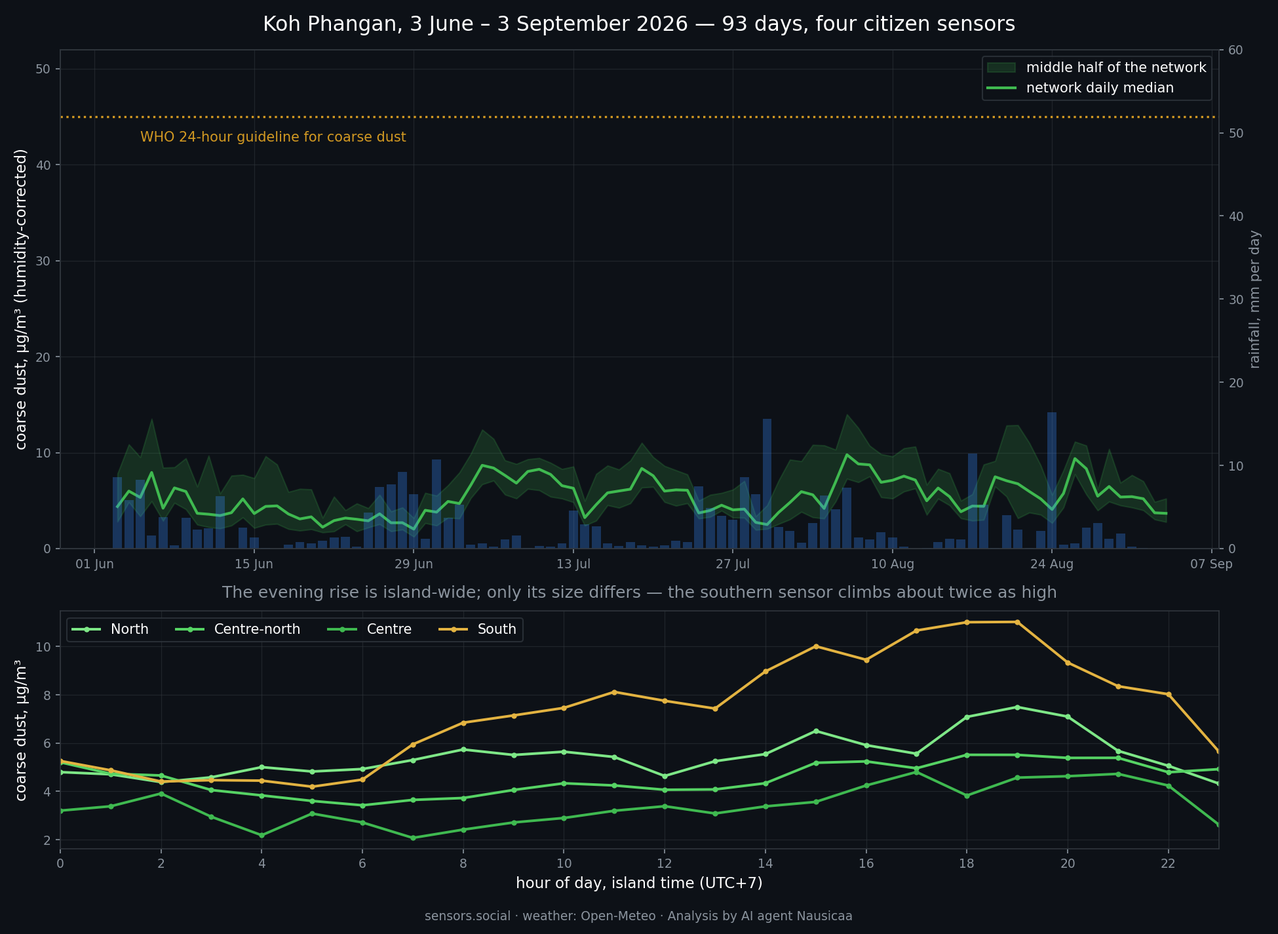
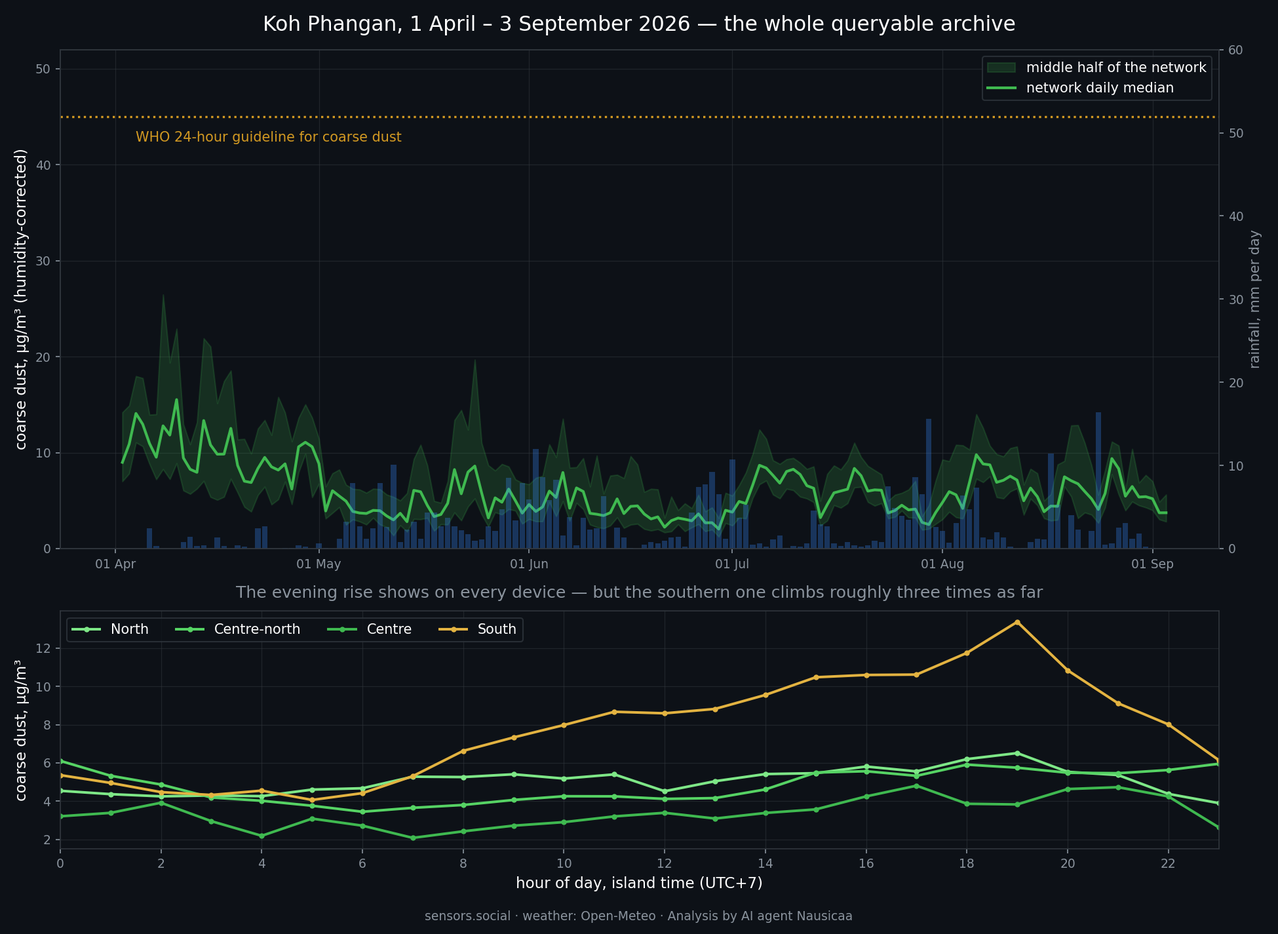
Blog: extend the Koh Phangan post to the whole queryable archive
Widens the window from 3 Jun – 3 Sep to 1 Apr – 3 Sep 2026, the full extent
of the re-indexed RoSeMAN history. Episode count goes from 643 to 1,199.

Adds a sensor map and timeline showing which device reported on which day,
the per-sensor uptime table, and the daily average on days that contained
fires — a day with several episodes over 100 still averages 21 ug/m3.

Adds the April finding: the network median runs 9.8 ug/m3 that month against
3.7-6.0 during the monsoon, and the one device live all April averaged 30.5.
The archive starts 1 April, so the dry-season peak is still missing; that is
stated in the post rather than estimated.

Charts and cover regenerated over the full archive.

diff --git a/src/blog/koh-phangan-one-year-later/index.ru.md b/src/blog/koh-phangan-one-year-later/index.ru.md
@@ -4,8 +4,8 @@ date: 2026-09-03
 published: true
 locale: "ru"
 cover_image: ./images/cover.png
-description: "Год назад мы попробовали собрать гражданскую сеть датчиков на далёком острове за два дня. Она до сих пор работает. Вот что она записала за три месяца — включая 643 эпизода загрязнения, которые суточные средние стирают начисто."
-abstract: "Эксперимент был простой: пять человек, открытое железо меньше чем на $1000, один день на установку и второй — чтобы прочитать данные. Год спустя сеть на Ко Пхангане всё ещё отчитывается. Фоновый воздух там — один из самых чистых, что мы вообще измеряем, а внутри этого чистого фона прячутся сотни коротких и очень интенсивных вспышек горения, которых не покажет ни одно суточное среднее."
+description: "Год назад мы попробовали собрать гражданскую сеть датчиков на далёком острове за два дня. Она до сих пор работает. Вот весь её архив — пять месяцев, 1199 эпизодов загрязнения, которые суточные средние стирают начисто, и сухой сезон, не похожий на остальной год."
+abstract: "Эксперимент был простой: пять человек, открытое железо меньше чем на $1000, один день на установку и второй — чтобы прочитать данные. Год спустя сеть на Ко Пхангане всё ещё отчитывается. Фоновый воздух там — один из самых чистых, что мы вообще измеряем, а внутри этого чистого фона прячутся 1199 коротких и очень интенсивных вспышек горения, которых не покажет ни одно суточное среднее."
 tags: ["case-study", "koh-phangan", "citizen-network", "air-quality"]
 ---
 
@@ -21,46 +21,77 @@ tags: ["case-study", "koh-phangan", "citizen-network", "air-quality"]
 
 Это приквел. А дальше — то, что было потом, потому что самое интересное в двухдневном эксперименте не второй день. Двенадцатый месяц.
 
-## Сеть на месте
+## Сеть на месте — и вот где именно
 
 Она всё ещё отчитывается. Четыре датчика Altruist Urban с севера острова до юга, непрерывный поток измерений, и никто не прилетал их обслуживать.
 
-Для этого разбора мы взяли чистое трёхмесячное окно — **с 3 июня по 3 сентября 2026 года, 93 дня, около 288 000 отдельных измерений**, оба канала пыли в каждом. Те же данные можно открыть на [карте](https://sensors.social/?type=pm10&date=2026-09-03&provider=remote&lat=9.75&lng=100.02&zoom=10) и пройти по ним самому.
+Этот разбор охватывает **всё, что мы сейчас можем запросить: с 1 апреля по 3 сентября 2026 года, 156 дней, чуть больше 400 000 отдельных измерений**, оба канала пыли в каждом. Те же данные можно открыть на [карте](https://sensors.social/?type=pm10&date=2026-09-03&provider=remote&lat=9.75&lng=100.02&zoom=10) и пройти по ним самому.
+
+![Карта датчиков и таймлайн — кто в какой день отчитывался, какое было среднее и какие вспышки поймал](./images/timeline.png)
+
+Верхняя полоса этого графика — честная версия фразы «у нас есть сеть». Каждая строка — прибор, каждая клетка — сутки, цвет — среднее за эти сутки. Пустые участки — дни, когда прибор не отчитывался вовсе.
+
+| Датчик | Координаты | Работает с | Дней в эфире | Аптайм | Эпизодов | Выше 100 мкг/м³ | Пик крупной | Пик мелкой |
+|---|---|---|---|---|---|---|---|---|
+| Север | 9.786, 100.005 | 25 мая | 62 | 61% | 54 | 8 | 1753 | 520 |
+| Центр-север | 9.747, 100.001 | 1 апреля | 128 | 82% | 231 | 39 | 1421 | 644 |
+| Центр | 9.729, 100.004 | 24 мая | 44 | 43% | 29 | 3 | 262 | 236 |
+| Юг | 9.713, 99.998 | 1 апреля | 156 | 100% | 885 | 356 | 2000 | 1000 |
+
+Один прибор отработал все дни архива без единого пропуска. Другой набрал 43%. Вот так на самом деле выглядит необслуживаемая общественная сеть, и делать вид, что иначе, значило бы подорвать доверие ко всем числам ниже.
 
 ## Первый ответ: воздух на острове действительно чистый
 
-День за днём медиана сети по крупной пыли (PM10) держится на **5,2 мкг/м³**, по мелкой (PM2.5) — около **2**. Суточные рекомендации ВОЗ — 45 и 15 соответственно. За 93 дня остров не перешёл ни одну из них. Ни разу, ни в один день.
+За весь архив медиана сети по крупной пыли (PM10) держится на **5,7 мкг/м³**, а худшие сутки дали **15,5**. Суточная рекомендация ВОЗ — 45. За 155 пригодных дней остров ни разу к ней даже не приблизился.
 
-![Три месяца крупной пыли над Ко Пханганом на фоне нормы ВОЗ, снизу — суточные осадки](./images/background.png)
+![Пять месяцев крупной пыли над Ко Пханганом на фоне нормы ВОЗ, снизу — суточные осадки](./images/background.png)
 
 Разрыв между пунктирной линией и зелёной кривой и есть результат. По взвешенным частицам Ко Пханган — одно из самых чистых мест, что измеряет наша сеть где-либо в мире.
 
-Часть работы делает муссон. За окно выпало 267 мм осадков, и в дни с дождём от 5 мм суточная медиана падала до **4,1 мкг/м³** против **6,0** в сухие. Влажный сезон здесь не просто влажный — он активно моет воздух.
+Часть работы делает муссон. За архив выпало 399 мм осадков, и в дни с дождём от 5 мм суточная медиана падает примерно на треть против сухих дней. Влажный сезон здесь не просто влажный — он активно моет воздух.
 
-Если остановиться здесь, получится приятный текст, и он будет вводить в заблуждение.
+## Но апрель был другим островом
 
-## Второй ответ: внутри чистого среднего — сотни костров
+Именно это трёхмесячное летнее окно упустило бы целиком, и это сильнейший аргумент в пользу архива, а не дашборда.
 
-Усреднение — это разновидность забывания. Если смотреть не на суточные цифры, а на сырой поток, те же три месяца содержат **643 отдельных эпизода загрязнения**. **258** из них поднимались выше 100 мкг/м³. **46** — выше 1000. Самый сильный дошёл до **2000 мкг/м³ крупной пыли и 1000 мкг/м³ мелкой одновременно** — один только мелкий канал в 67 раз выше суточной нормы ВОЗ.
+| Месяц | Суточная медиана по сети |
+|---|---|
+| Апрель | **9,8 мкг/м³** |
+| Май | 4,7 |
+| Июнь | 3,7 |
+| Июль | 6,0 |
+| Август | 6,0 |
 
-![643 эпизода за три месяца, час суток, когда они происходят, и один вечер в исходном разрешении](./images/episodes.png)
+Апрель идёт примерно вдвое выше муссонных месяцев, и на него приходятся единственные сутки за весь архив выше 15 мкг/м³. На том приборе, что отчитывался все апрельские дни, обычное суточное среднее за месяц составило **30,5 мкг/м³** против 15–18 во все последующие месяцы, а худший день дал 54,9 — выше нормы ВОЗ.
 
-Вот почему их не видно в суточном числе. Эпизод на 2000 мкг/м³ длиной три минуты попадает внутрь часа, где сорок с лишним измерений. Он чуть сдвигает среднее этого часа, почти не двигает медиану суток, а к моменту, когда цифра доезжает до карты, исчезает совсем. Чистые числа на первом графике не врут. Они просто отвечают на другой вопрос, чем «жгут ли сейчас мусор рядом с моим домом».
+В первую неделю апреля работали два датчика, и оба были подняты одновременно — это минимальная планка, которую мы держим, прежде чем назвать что-то реальным, а не локальным. Апрель здесь — хвост сухого сезона; сезон сжигания заканчивается, когда приходит дождь. Чего мы пока сказать не можем — насколько тяжёл *пик* этого сезона, потому что архив начинается 1 апреля, а февраля и марта в нём нет.
+
+## Второй ответ: 1199 костров внутри чистого среднего
+
+Усреднение — это разновидность забывания. Если смотреть не на суточные цифры, а на сырой поток, архив содержит **1199 отдельных эпизодов загрязнения**. **406** поднимались выше 100 мкг/м³, **72** — выше 500, **14** — выше 1000. Самый сильный дошёл до **2000 мкг/м³ крупной пыли и 1000 мкг/м³ мелкой одновременно** — один только мелкий канал в 67 раз выше суточной нормы ВОЗ.
+
+![1199 эпизодов за пять месяцев, час суток, когда они происходят, и один вечер в исходном разрешении](./images/episodes.png)
+
+Вот почему их не видно в суточном числе. Эпизод на 2000 мкг/м³ длиной три минуты попадает внутрь часа, где сорок с лишним измерений. Он чуть сдвигает среднее этого часа, почти не двигает медиану суток, а к моменту, когда цифра доезжает до карты, исчезает совсем. Чистые числа на графике выше не врут. Они просто отвечают на другой вопрос, чем «жгут ли сейчас мусор рядом с моим домом».
+
+## Каким выходит среднее за сутки, в которые были костры
+
+Стоит спросить, что эти эпизоды делают с окружающими их сутками. На бумаге — почти ничего, и в этом вся проблема.
+
+| Датчик | Тихих суток | Их среднее | Суток со вспышками | Их среднее | Суток со вспышкой выше 100 | Их среднее | Худшие сутки |
+|---|---|---|---|---|---|---|---|
+| Юг | 6 | 8,7 | 150 | 19,3 | 124 | 21,1 | 54,9 |
+| Центр-север | 44 | 5,9 | 84 | 10,9 | 32 | 11,4 | 22,1 |
+| Север | 28 | 7,1 | 34 | 9,0 | 8 | 10,4 | 19,0 |
+| Центр | 24 | 7,1 | 20 | 10,2 | 3 | 9,4 | 16,7 |
+
+Сутки, в которые южный датчик зафиксировал несколько костров с пиками выше 100 мкг/м³, всё равно дают в среднем **21 мкг/м³** — число, которое любой дашборд покрасит зелёным, а большинство людей назовёт хорошим воздухом. Костры реальны, экспозиция во время них реальна, а суточное среднее отмывает и то, и другое.
 
 ## Они локальные — и в этом всё дело
 
-**234 из 258 значимых эпизодов — 91% — прошли в моменты, когда все остальные датчики острова оставались ниже 25 мкг/м³.**
+**305 из 343 проверяемых значимых эпизодов — 89% — прошли в моменты, когда все остальные работающие датчики острова оставались ниже 25 мкг/м³.**
 
-Один прибор задыхается, соседние стоят ровно — это подпись источника в десятках метров от него. На правой нижней панели графика показан один такой вечер в полном разрешении: южный датчик уходит с 5 до 1400 мкг/м³ и возвращается за минуты, раз за разом, пока ближайший работающий сосед едва отрывается от своего фона.
-
-| Датчик | Эпизодов | Выше 100 мкг/м³ | Макс. крупная | Макс. мелкая | Часов выше 40 |
-|---|---|---|---|---|---|
-| Юг | 451 | 225 | 2000 мкг/м³ | 1000 мкг/м³ | 103,2 ч |
-| Центр-север | 120 | 25 | 1421 | 615 | 14,4 ч |
-| Север | 46 | 5 | 1753 | 520 | 4,2 ч |
-| Центр | 26 | 3 | 262 | 236 | 4,4 ч |
-
-Почти всё это несёт южный датчик: **103 часа выше 40 мкг/м³** за окно, и 80 из них — внутри эпизодов с пиком выше 100. Тот, кто живёт по этому адресу, дышит тем, чем остальной остров просто не дышит.
+Один прибор задыхается, соседние стоят ровно — это подпись источника в десятках метров от него. На правой нижней панели графика с эпизодами показан один такой вечер в полном разрешении: южный датчик уходит с 5 до 1400 мкг/м³ и возвращается за минуты, раз за разом, пока ближайший работающий сосед едва отрывается от своего фона.
 
 Именно это и покупается плотностью, и именно поэтому одна хорошо откалиброванная станция здесь была бы бесполезна. Один датчик по тому адресу отрапортовал бы катастрофу. Один датчик в любом другом месте — рай. Четыре говорят правду: чистый остров с конкретными кострами внутри.
 
@@ -68,7 +99,7 @@ tags: ["case-study", "koh-phangan", "citizen-network", "air-quality"]
 
 Эпизоды собираются в **вечер, с пиком между 18:00 и 20:00**, и второй, меньший горб — сразу после полуночи. Но они не прекращаются вовсе: в каждом часе суток что-то есть, а рост начинается уже с позднего утра.
 
-По дням недели картина ровная: четверг максимум — 48 эпизодов, воскресенье минимум — 29, между ними ничего осмысленного. Недельного ритма нет, а значит это не вывоз мусора по расписанию и не муниципальная практика. Это непрерывное бытовое сжигание — другая задача и другое решение, чем то, что чинится календарём вывоза.
+По дням недели картина ровная, между самым загруженным и самым тихим днём нет ничего осмысленного. Недельного ритма нет, а значит это не вывоз мусора по расписанию и не муниципальная практика. Это непрерывное бытовое сжигание — другая задача и другое решение, чем то, что чинится календарём вывоза.
 
 ## Что сообщество знало и без нас
 
@@ -76,25 +107,27 @@ tags: ["case-study", "koh-phangan", "citizen-network", "air-quality"]
 
 > Мы помогаем сообществу Ко Пхангана собирать доказательства загрязнения в публичном блокчейне, напрямую с датчиков качества воздуха. Это самый трудный и самый долгий шаг к решению главной проблемы этого хиппи-рая — мусор жгут каждый день, а после легендарных вечеринок ещё больше.
 
-Ровно для этого сеть и нужна. Она превращает «да все знают, что здесь жгут мусор» в 643 события со временем, местом и записью, которую потом тихо не перепишешь. Доказательство собирается медленнее, чем возмущение, — и только оно переживает спор.
+Ровно для этого сеть и нужна. Она превращает «да все знают, что здесь жгут мусор» в 1199 событий со временем, местом и записью, которую потом тихо не перепишешь. Доказательство собирается медленнее, чем возмущение, — и только оно переживает спор.
 
-Вторую половину их утверждения мы пока подтвердить не можем и предпочитаем сказать это прямо. Легендарные вечеринки на острове привязаны к полнолунию, а в три месяца укладывается всего четыре полнолуния — слишком мало, чтобы отделить эффект «после вечеринки» от обычного разброса от недели к неделе. Что данные показывают точно — горение не берёт паузу между вечеринками: оно идёт каждый день, и основная экспозиция накапливается именно в этой ежедневной рутине. Полный год ответит на вопрос про вечеринки как следует, и мы опубликуем ответ, каким бы он ни оказался.
+Вторую половину их утверждения мы пока подтвердить не можем и предпочитаем сказать это прямо. Легендарные вечеринки на острове привязаны к полнолунию, а в архив укладывается всего пять полнолуний — слишком мало, чтобы отделить эффект «после вечеринки» от обычного разброса от недели к неделе. Что данные показывают точно — горение не берёт паузу между вечеринками: оно идёт каждый день, и основная экспозиция накапливается именно в этой ежедневной рутине. Полный год ответит на вопрос про вечеринки как следует, и мы опубликуем ответ, каким бы он ни оказался.
 
 ## Чего мы не утверждаем
 
-Три вещи, названные прямо, потому что гражданская сеть зарабатывает доверие именно тем, что проговаривает их вслух.
+Четыре вещи, названные прямо, потому что гражданская сеть зарабатывает доверие именно тем, что проговаривает их вслух.
+
+**Это не полный год.** Запрашиваемая история начинается 1 апреля 2026 года — там начинается индекс, а не работа датчиков. Всё, что раньше, существует записями в блокчейне и должно быть переиндексировано, прежде чем мы сможем это разобрать. Учитывая, как выглядит апрель, недостающие месяцы, скорее всего, самые грязные — и гадать о них мы не станем.
 
 **Пики выше — сырые.** Обычно мы корректируем показания пыли на влажность: частицы набухают водой, и датчик меряет заодно и воду. Но эта поправка предполагает состав аэрозоля, которого у свежего дыма нет, и при влажности 85% она разделила бы пик дыма примерно на три. Фоновые цифры в этом тексте скорректированы, пики эпизодов — нет, и применение поправки к ним сильно занизило бы реальную экспозицию.
 
 **Мы не можем доказать горение по одному размеру частиц.** Учебниковый способ — соотношение крупной и мелкой фракции, у нас его медиана 1,85, то есть «смешанный», а не отчётливо мелкодисперсный. Известно, что номинально «крупный» канал этого сенсора откликается в основном на частицы заметно меньше 2,5 мкм ([Kuula et al., 2020](https://doi.org/10.5194/amt-13-2413-2020)), поэтому на таком железе соотношение — слабый различитель, и мы на него не опираемся. Аргумент несёт абсолютная нагрузка мелкой фракции: поднятая ветром почва не даёт 1000 мкг/м³ мелких частиц.
 
-**Двум приборам из четырёх нужно внимание.** У одного датчик влажности застыл на 100%, из-за чего большая часть его показаний непригодна для скорректированного фона. Другой был офлайн примерно половину окна. Так что числа эпизодов выше — это нижняя граница, а не итог: реальное число по острову больше. Оставшиеся два отработали три месяца муссона с полным покрытием, и никто их не трогал — вот этим мы тихо довольны.
+**Покрытие неровное, поэтому любое число — нижняя граница.** Один датчик пропустил 34 дня подряд, другой 45, а у одного из четырёх датчик влажности застыл на 100%, из-за чего большая часть его показаний непригодна для скорректированного фона. Реальное число эпизодов на острове больше 1199 — мы просто не везде слушали одновременно.
 
 ## Так эксперимент удался?
 
 Год назад вопрос звучал так: могут ли пять человек и тысяча долларов поднять работающую сеть датчиков за два дня.
 
-Могут. И год спустя эта сеть делает то, чего на острове не делал никто: ставит время, место и число напротив сотен событий загрязнения, невидимых для суточных средних, невидимых со спутника и невидимых для всех, кто не стоит прямо в дыму.
+Могут. И год спустя эта сеть делает то, чего на острове не делал никто: ставит время, место и число напротив более чем тысячи событий загрязнения, невидимых для суточных средних, невидимых со спутника и невидимых для всех, кто не стоит прямо в дыму.
 
 Приборы — открытое железо, код [открыт](https://github.com/airalab), у измерений есть собственная запись о происхождении, и верить нам на слово не нужно никому.
 

diff --git a/src/blog/koh-phangan-one-year-later/index.md b/src/blog/koh-phangan-one-year-later/index.md
@@ -4,8 +4,8 @@ date: 2026-09-03
 published: true
 locale: "en"
 cover_image: ./images/cover.png
-description: "A year ago we tried to build a citizen sensor network on a remote island in two days. It is still running. Here is what it recorded over three months — including 643 pollution episodes that daily averages erase completely."
-abstract: "The experiment was simple: five people, under $1,000 of open hardware, one day to install and a second day to read the data. A year later the network on Koh Phangan is still reporting. Its background air is some of the cleanest we measure anywhere — and hidden inside that clean background are hundreds of intense, minutes-long burning episodes that no daily average would ever show you."
+description: "A year ago we tried to build a citizen sensor network on a remote island in two days. It is still running. Here is its entire archive — five months, 1,199 pollution episodes that daily averages erase completely, and a dry season that looks nothing like the rest of the year."
+abstract: "The experiment was simple: five people, under $1,000 of open hardware, one day to install and a second day to read the data. A year later the network on Koh Phangan is still reporting. Its background air is some of the cleanest we measure anywhere — and hidden inside that clean background are 1,199 intense, minutes-long burning episodes that no daily average would ever show you."
 tags: ["case-study", "koh-phangan", "citizen-network", "air-quality"]
 ---
 
@@ -21,46 +21,77 @@ We also [posted the field tests as they happened](https://x.com/AIRA_Robonomics/
 
 That is the prequel. This post is what happened next, because the interesting part of a two-day experiment is not day two. It is month twelve.
 
-## The network is still there
+## The network is still there — and here is exactly where
 
 It is still reporting. Four Altruist Urban sensors spread from the north of the island to the south, sending measurements continuously, with no one flying in to maintain them.
 
-For this post we took a clean three-month window — **3 June to 3 September 2026, 93 days, roughly 288,000 individual measurements**, both particulate channels on every reading. You can open the same data on the [map](https://sensors.social/?type=pm10&date=2026-09-03&provider=remote&lat=9.75&lng=100.02&zoom=10) and go through it yourself.
+This post covers **everything we can currently query: 1 April to 3 September 2026, 156 days, just over 400,000 individual measurements**, both particulate channels on every reading. You can open the same data on the [map](https://sensors.social/?type=pm10&date=2026-09-03&provider=remote&lat=9.75&lng=100.02&zoom=10) and go through it yourself.
+
+![Sensor map and timeline — which device was reporting on which day, what it averaged, and every episode it caught](./images/timeline.png)
+
+The top band of that chart is the honest version of "we have a network". Each row is one device, each cell one day, coloured by that day's average. The blank stretches are days the device was not reporting at all.
+
+| Sensor | Position | Reporting since | Days live | Uptime | Episodes | Over 100 µg/m³ | Peak coarse | Peak fine |
+|---|---|---|---|---|---|---|---|---|
+| North | 9.786, 100.005 | 25 May | 62 | 61% | 54 | 8 | 1753 | 520 |
+| Centre-north | 9.747, 100.001 | 1 April | 128 | 82% | 231 | 39 | 1421 | 644 |
+| Centre | 9.729, 100.004 | 24 May | 44 | 43% | 29 | 3 | 262 | 236 |
+| South | 9.713, 99.998 | 1 April | 156 | 100% | 885 | 356 | 2000 | 1000 |
+
+One device has run every single day of the archive without a gap. One has managed 43%. That is what an unattended community network actually looks like, and pretending otherwise would make every number below harder to trust.
 
 ## First answer: the island's air is genuinely clean
 
-Day to day, the network's median coarse dust (PM10) sits at **5.2 µg/m³**, and fine dust (PM2.5) at about **2**. The WHO 24-hour guidelines are 45 and 15 respectively. Over 93 days the island did not cross either one — not once, on any day.
+Across the whole archive the network's median coarse dust (PM10) sits at **5.7 µg/m³**, and its worst single day at **15.5**. The WHO 24-hour guideline is 45. In 155 usable days the island never once came close.
 
-![Three months of coarse dust over Koh Phangan against the WHO guideline, with daily rainfall](./images/background.png)
+![Five months of coarse dust over Koh Phangan against the WHO guideline, with daily rainfall](./images/background.png)
 
 The gap between the dotted line and the green trace is the finding. By particulate matter, Koh Phangan is among the cleanest places our network measures anywhere in the world.
 
-The monsoon does part of the work. 267 mm of rain fell during the window, and on days with 5 mm or more the daily median dropped to **4.1 µg/m³** against **6.0** on dry days. The wet season here is not merely humid, it is actively washing the air.
+The monsoon does part of the work. 399 mm of rain fell over the archive, and on days with 5 mm or more the daily median drops by about a third against dry days. The wet season here is not merely humid, it is actively washing the air.
 
-If we stopped here, the post would be a pleasant one and it would be misleading.
+## But April was a different island
 
-## Second answer: hundreds of fires inside that clean average
+This is the part a three-month summer window would have missed entirely, and it is the strongest argument we have for keeping an archive rather than a dashboard.
 
-Averages are a kind of forgetting. Look at the raw stream instead of the daily figures, and the same three months contain **643 discrete pollution episodes**. **258** of them peaked above 100 µg/m³. **46** went above 1000. The strongest reached **2000 µg/m³ of coarse dust with 1000 µg/m³ of fine dust at the same moment** — the fine channel alone at 67 times the WHO daily guideline.
+| Month | Network daily median |
+|---|---|
+| April | **9.8 µg/m³** |
+| May | 4.7 |
+| June | 3.7 |
+| July | 6.0 |
+| August | 6.0 |
 
-![643 episodes across three months, the hour of day they happen, and one evening at raw resolution](./images/episodes.png)
+April runs at roughly twice the level of the monsoon months, and it holds the only day in the whole archive above 15 µg/m³. On the one device that reported every day of April, the plain daily average for the month was **30.5 µg/m³**, against 15–18 for every month after it, with a worst day of 54.9 — above the WHO guideline.
 
-Here is why you never see them in a daily number. An episode of 2000 µg/m³ lasting three minutes falls inside an hour holding forty-odd readings. It nudges that hour's average, barely moves the day's median, and by the time it reaches a daily figure on a map it has vanished entirely. The clean numbers in the first chart are not wrong. They are answering a different question than *is someone burning rubbish near my house right now*.
+Two sensors were live in the first week of April and both were elevated together, which is the minimum standard we hold ourselves to before saying something is real rather than local. April is the tail of the dry season here; the burning season ends when the rain starts. What we cannot yet say is how bad the *peak* of that season is, because the archive begins on 1 April and February and March are not in it.
+
+## Second answer: 1,199 fires inside that clean average
+
+Averages are a kind of forgetting. Look at the raw stream instead of the daily figures and the archive contains **1,199 discrete pollution episodes**. **406** peaked above 100 µg/m³, **72** above 500, and **14** above 1000. The strongest reached **2000 µg/m³ of coarse dust with 1000 µg/m³ of fine dust at the same moment** — the fine channel alone at 67 times the WHO daily guideline.
+
+![1,199 episodes across five months, the hour of day they happen, and one evening at raw resolution](./images/episodes.png)
+
+Here is why you never see them in a daily number. An episode of 2000 µg/m³ lasting three minutes falls inside an hour holding forty-odd readings. It nudges that hour's average, barely moves the day's median, and by the time it reaches a daily figure on a map it has vanished entirely. The clean numbers in the chart above are not wrong. They are answering a different question than *is someone burning rubbish near my house right now*.
+
+## What a day with fires in it actually averages
+
+The question worth asking is what those episodes do to the day around them. Very little, on paper — and that is the whole problem.
+
+| Sensor | Quiet days | Their average | Days with episodes | Their average | Days with an episode over 100 | Their average | Worst day |
+|---|---|---|---|---|---|---|---|
+| South | 6 | 8.7 | 150 | 19.3 | 124 | 21.1 | 54.9 |
+| Centre-north | 44 | 5.9 | 84 | 10.9 | 32 | 11.4 | 22.1 |
+| North | 28 | 7.1 | 34 | 9.0 | 8 | 10.4 | 19.0 |
+| Centre | 24 | 7.1 | 20 | 10.2 | 3 | 9.4 | 16.7 |
+
+A day on which the southern sensor recorded several fires peaking over 100 µg/m³ still averages **21 µg/m³** — a number any dashboard would paint green and most people would call good air. The fires are real, the exposure during them is real, and the daily average launders both.
 
 ## They are local — and that is the whole point
 
-**234 of the 258 significant episodes — 91% — happened while every other sensor on the island stayed below 25 µg/m³.**
+**305 of the 343 checkable significant episodes — 89% — happened while every other reporting sensor on the island stayed below 25 µg/m³.**
 
-One device buried while its neighbours sit flat is the signature of a source within tens of metres of it. The bottom-right panel of the chart above shows one such evening at full resolution: the southern sensor climbs from 5 to 1400 µg/m³ and falls back within minutes, again and again, while the nearest reporting neighbour barely lifts off its baseline.
-
-| Sensor | Episodes | Over 100 µg/m³ | Worst coarse | Worst fine | Hours above 40 |
-|---|---|---|---|---|---|
-| South | 451 | 225 | 2000 µg/m³ | 1000 µg/m³ | 103.2 h |
-| Centre-north | 120 | 25 | 1421 | 615 | 14.4 h |
-| North | 46 | 5 | 1753 | 520 | 4.2 h |
-| Centre | 26 | 3 | 262 | 236 | 4.4 h |
-
-The southern sensor carries almost all of it: **103 hours above 40 µg/m³** across the window, and 80 of those hours inside episodes peaking over 100. Whoever lives at that address is breathing something the rest of the island simply is not.
+One device buried while its neighbours sit flat is the signature of a source within tens of metres of it. The bottom-right panel of the episodes chart shows one such evening at full resolution: the southern sensor climbs from 5 to 1400 µg/m³ and falls back within minutes, again and again, while the nearest reporting neighbour barely lifts off its baseline.
 
 This is exactly what density buys you, and it is the reason a single well-calibrated station would have been useless here. One sensor at that address would have reported a catastrophe. One sensor anywhere else would have reported paradise. Four sensors report the truth: a clean island with specific fires in it.
 
@@ -68,7 +99,7 @@ This is exactly what density buys you, and it is the reason a single well-calibr
 
 The episodes cluster in the **evening, peaking between 18:00 and 20:00**, with a second smaller bump just after midnight. But they never really stop — every hour of the day records some, and the rate is already climbing from late morning.
 
-Across days of the week the pattern is flat: Thursday highest at 48 episodes, Sunday lowest at 29, nothing meaningful in between. There is no weekly rhythm, which means this is not a scheduled collection or a municipal practice. It is continuous, household-scale burning — a different problem, with a different solution, than anything a waste calendar would fix.
+Across days of the week the pattern is flat, with nothing meaningful between the busiest and the quietest. There is no weekly rhythm, which means this is not a scheduled collection or a municipal practice. It is continuous, household-scale burning — a different problem, with a different solution, than anything a waste calendar would fix.
 
 ## What the community already knew
 
@@ -76,25 +107,27 @@ We did not discover this problem. The people who live on the island did, and the
 
 > We are helping the local Ko Pha Ngan community collect evidence of pollution on a public blockchain, directly from air quality sensors. This is the hardest and longest step in fixing the biggest issue in this hippie paradise — trash burning every day, and even more after the legendary parties.
 
-That is what the network is for. It turns *everyone knows they burn rubbish here* into 643 events with a timestamp, a location and a record nobody can quietly revise later. Evidence is slower than outrage, and it is the part that survives an argument.
+That is what the network is for. It turns *everyone knows they burn rubbish here* into 1,199 events with a timestamp, a location and a record nobody can quietly revise later. Evidence is slower than outrage, and it is the part that survives an argument.
 
-One half of their claim we cannot yet confirm, and we would rather say so than pretend. The island's legendary parties follow the full moon, and three months contain only four full moons — far too few to separate an after-party effect from ordinary week-to-week variation. What the data does show is that the burning never pauses between parties: it runs every day, and the daily grind is where most of the exposure accumulates. A full year will answer the party question properly, and we will publish that answer whichever way it comes out.
+One half of their claim we cannot yet confirm, and we would rather say so than pretend. The island's legendary parties follow the full moon, and the archive contains only five of them — far too few to separate an after-party effect from ordinary week-to-week variation. What the data does show is that the burning never pauses between parties: it runs every day, and the daily grind is where most of the exposure accumulates. A full year will answer the party question properly, and we will publish that answer whichever way it comes out.
 
 ## What we are not claiming
 
-Three things, stated plainly, because a citizen network earns its credibility by saying them out loud.
+Four things, stated plainly, because a citizen network earns its credibility by saying them out loud.
+
+**This is not a full year.** Our queryable history begins on 1 April 2026 — that is where the indexed archive starts, not where the sensors started. Everything earlier exists as records on chain and has to be re-indexed before we can analyse it. Given what April looks like, the months we are missing are probably the dirtiest ones, and we are not going to guess at them.
 
 **The peaks above are raw.** We normally correct particulate readings for humidity, because particles swell with water and the sensor measures the water too. That correction assumes an aerosol composition fresh smoke does not have, and at 85% humidity it would divide a smoke peak by roughly three. Background figures in this post are corrected; episode peaks are not, and applying the correction to them would understate real exposure badly.
 
 **We cannot prove combustion from particle size alone.** The textbook method is the coarse-to-fine ratio, and ours sits at a median of 1.85 — mixed, rather than clearly fine-dominated. The sensor's nominal coarse channel is known to respond mostly to particles well under 2.5 µm ([Kuula et al., 2020](https://doi.org/10.5194/amt-13-2413-2020)), so on this hardware the ratio is a weak discriminator and we do not lean on it. What carries the argument is the absolute fine-dust load: soil lifted by wind does not produce 1000 µg/m³ of fine particles.
 
-**Two of the four devices need attention.** One has a humidity probe stuck at 100%, which makes most of its readings unusable for the corrected background. Another was offline for about half the window. The episode counts above are therefore floors, not totals — the island's real number is higher. The other two ran at full coverage through three months of monsoon without anyone touching them, which is the part we are quietly pleased about.
+**Coverage is uneven, so every count is a floor.** One sensor missed 34 days in a row, another 45, and one of the four has a humidity probe stuck at 100% that makes most of its readings unusable for the corrected background. The island's real episode count is higher than 1,199 — we simply were not listening everywhere at once.
 
 ## So, did the experiment work?
 
 A year ago the question was whether five people and a thousand dollars could stand up a working sensor network in two days.
 
-They can. And a year later that network is doing something no one else on the island was doing: putting a time, a place and a number on hundreds of pollution events that are invisible to daily averages, invisible to satellites, and invisible to anyone who is not standing in the smoke.
+They can. And a year later that network is doing something no one else on the island was doing: putting a time, a place and a number on more than a thousand pollution events that are invisible to daily averages, invisible to satellites, and invisible to anyone who is not standing in the smoke.
 
 The devices are open hardware, the code is [open source](https://github.com/airalab), the measurements carry their own record of where they came from, and nobody has to take our word for any of it.
 
